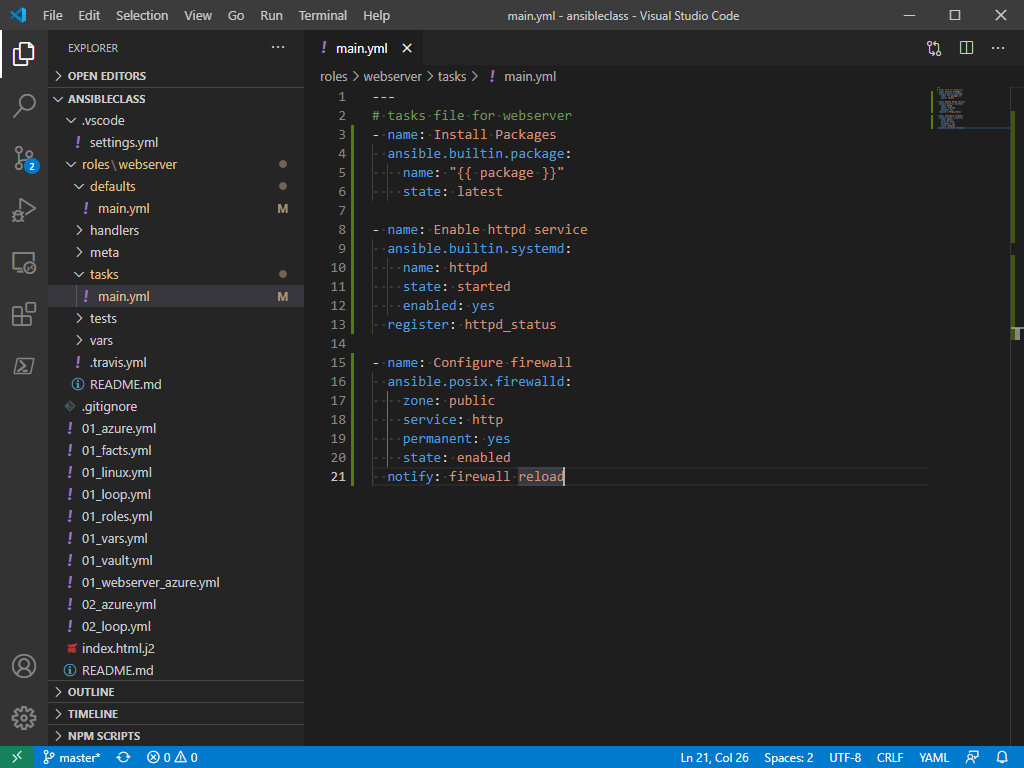
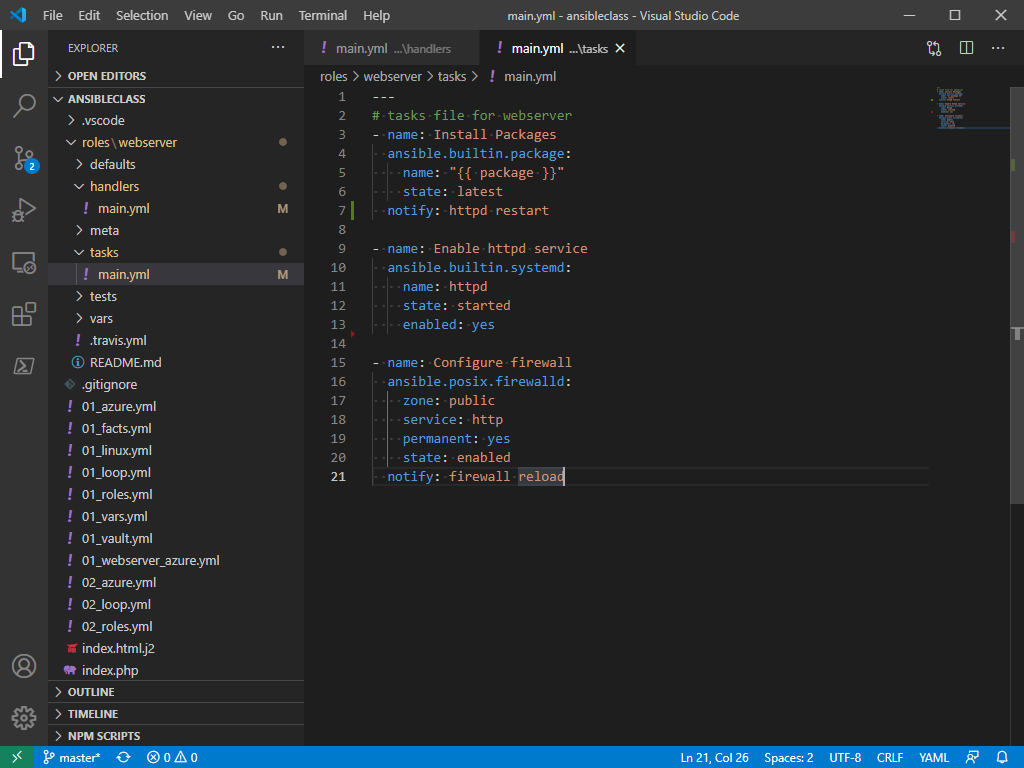
last steps in roles

diff --git a/lab04/lab4.md b/lab04/lab4.md
@@ -178,13 +178,13 @@ In VSCode open the roles/webserver/tasks/main.yml add the following
   ansible.builtin.package:
     name: "{{ package }}"
     state: latest
+  notify: httpd restart
 
 - name: Enable httpd service
   ansible.builtin.systemd:
     name: httpd
     state: started
     enabled: yes
-  register: httpd_status
 
 - name: Configure firewall
   ansible.posix.firewalld:
@@ -309,7 +309,7 @@ In VSCode add the following to index.php
 
 ```php
 <?PHP
-echo "Welcome to your new webserver";
+echo "Welcome to your new webserver: ";
 echo gethostname();
 ?>
 
@@ -318,6 +318,8 @@ echo gethostname();
 ![Alt text](pics/014_vscode_index_php.png?raw=true "vscode index.php")
 
 And finally lets create a playbook to run it all
+
+First we use our role to install and configure httpd and php next we have a simple task that copies our php file
 
 Create a new file 02_roles.yml add the following
 
@@ -355,6 +357,12 @@ git pull
 ansible-playbook 02_roles.yml --ask-become-pass
 
 ```
+
+![Alt text](pics/016_vscode_roles_run.png?raw=true "vscode roles run")
+
+Go to the azure portal and get the external ip of server1 or server2 and type it in your browser
+
+![Alt text](pics/01_webpage.png?raw=true "webpage")
 
 Lab done
 
